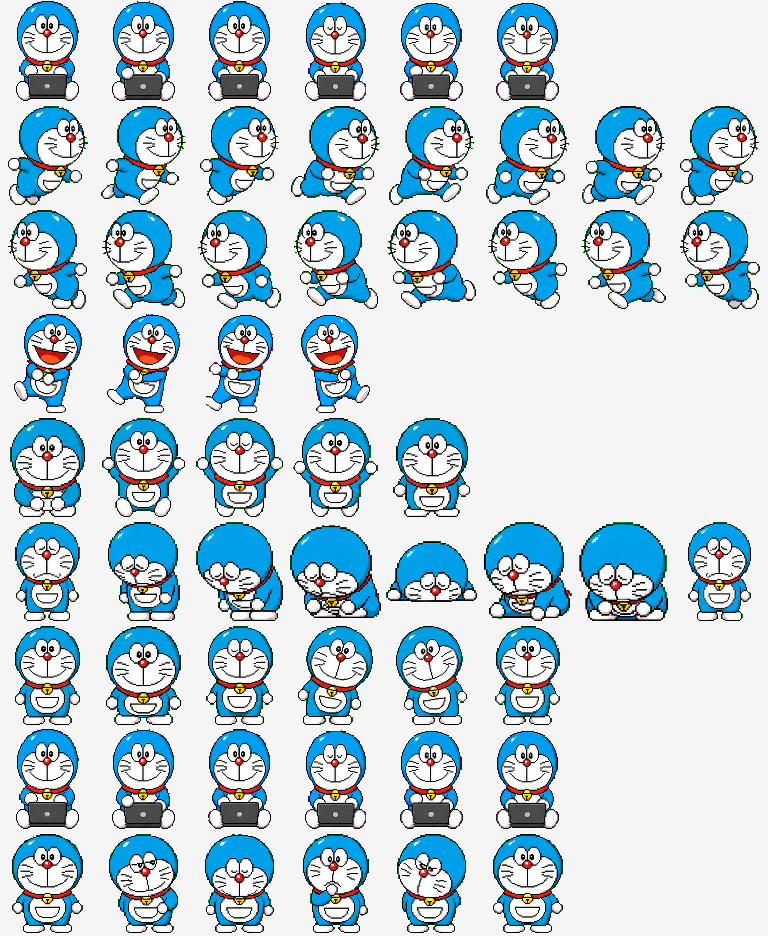
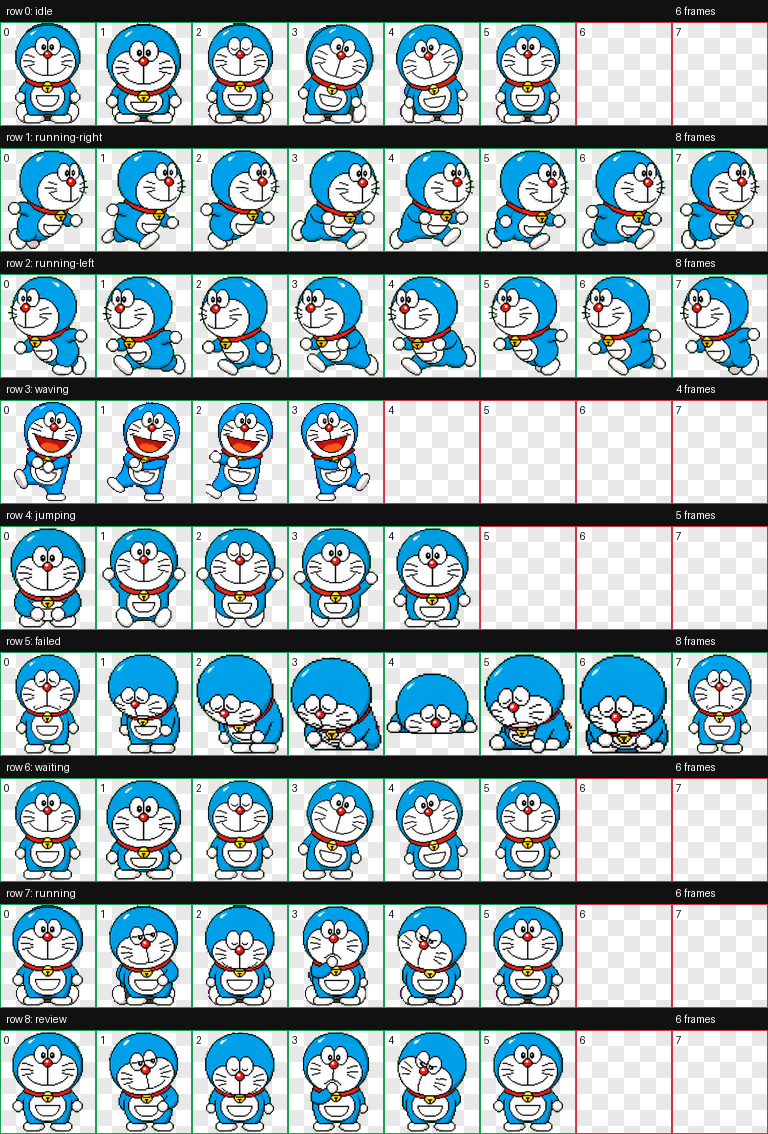
Refine work animation

diff --git a/README.md b/README.md
@@ -2,15 +2,15 @@
 
 一只为 [OpenAI Codex](https://openai.com/codex/) 桌面应用定制的哆啦A梦桌宠。
 
-它会悬浮在屏幕最顶层,实时显示 Codex 的工作状态:**派活后坐下敲键盘,干完活起身跳科目三庆祝,翻车了瘫倒在地**。
+它会悬浮在屏幕最顶层,实时显示 Codex 的工作状态:**派活后专注思考,干完活起身跳科目三庆祝,翻车了瘫倒在地**。
 
-![敲键盘](previews/running.gif) ![科目三](previews/waving.gif) ![失败](previews/failed.gif)
+![专注干活](previews/running.gif) ![科目三](previews/waving.gif) ![失败](previews/failed.gif)
 
 ## 特色
 
 在标准哆啦A梦宠物包的基础上定制了两个动画:
 
-- **敲键盘干活**:Codex 在后台执行任务时,哆啦A梦坐在小笔记本前打字(原版是原地小跑)。坐姿头身比与站立帧严格对齐,切换时不会突然变大
+- **专注干活**:Codex 在后台执行任务时,哆啦A梦会摆出思考、查看、认真处理的动作,不再抱着电脑打字。站立帧与工作帧保持同一头身比,切换时不会突然变大
 - **官方配色校准**:全表主体蓝校准到官方哆啦A梦标准蓝 `#00A0E9`,各状态配色统一
 - **科目三庆祝舞**:任务完成时跳一段抖音科目三——扭胯、踢腿、甩臂画腕(原版是普通挥手)。按官方契约 waving 行为 4 帧,从 8 帧原始动作中抽取关键帧制作
 
@@ -50,7 +50,7 @@ curl -fsSL -o ~/.codex/pets/doraemon/spritesheet.webp https://raw.githubusercont
 | 状态 | 预览 | 触发时机 |
 |---|---|---|
 | 发呆 idle | ![idle](previews/idle.gif) | 没有任务时,呼吸眨眼 |
-| 敲键盘 running | ![running](previews/running.gif) | Codex 在后台干活时 |
+| 专注干活 running | ![running](previews/running.gif) | Codex 在后台干活时 |
 | 检查 review | ![review](previews/review.gif) | Codex 审查代码时 |
 | 等待 waiting | ![waiting](previews/waiting.gif) | 等你批准操作(气泡显示红色时钟) |
 | 跳跃 jumping | ![jumping](previews/jumping.gif) | 需要你做决定时 |
@@ -75,7 +75,7 @@ doraemon-codex-pet/
 ## 制作说明
 
 - 基础形象来自 [Petdex](https://petdex.dev) 社区的 doraemon 宠物包(作者 korkyzer)
-- 敲键盘和科目三两行动画为 AI 生成后,经色键抠图、按头宽与基线对齐缩放、碎片清理后合成
+- 专注干活和科目三两行动画为 AI 生成后,经色键抠图、按头宽与基线对齐缩放、碎片清理后合成
 - 详细 DIY 方法可参考 [openai/skills 的 hatch-pet 技能](https://github.com/openai/skills/blob/main/skills/.curated/hatch-pet/SKILL.md)
 
 ## 版权声明
